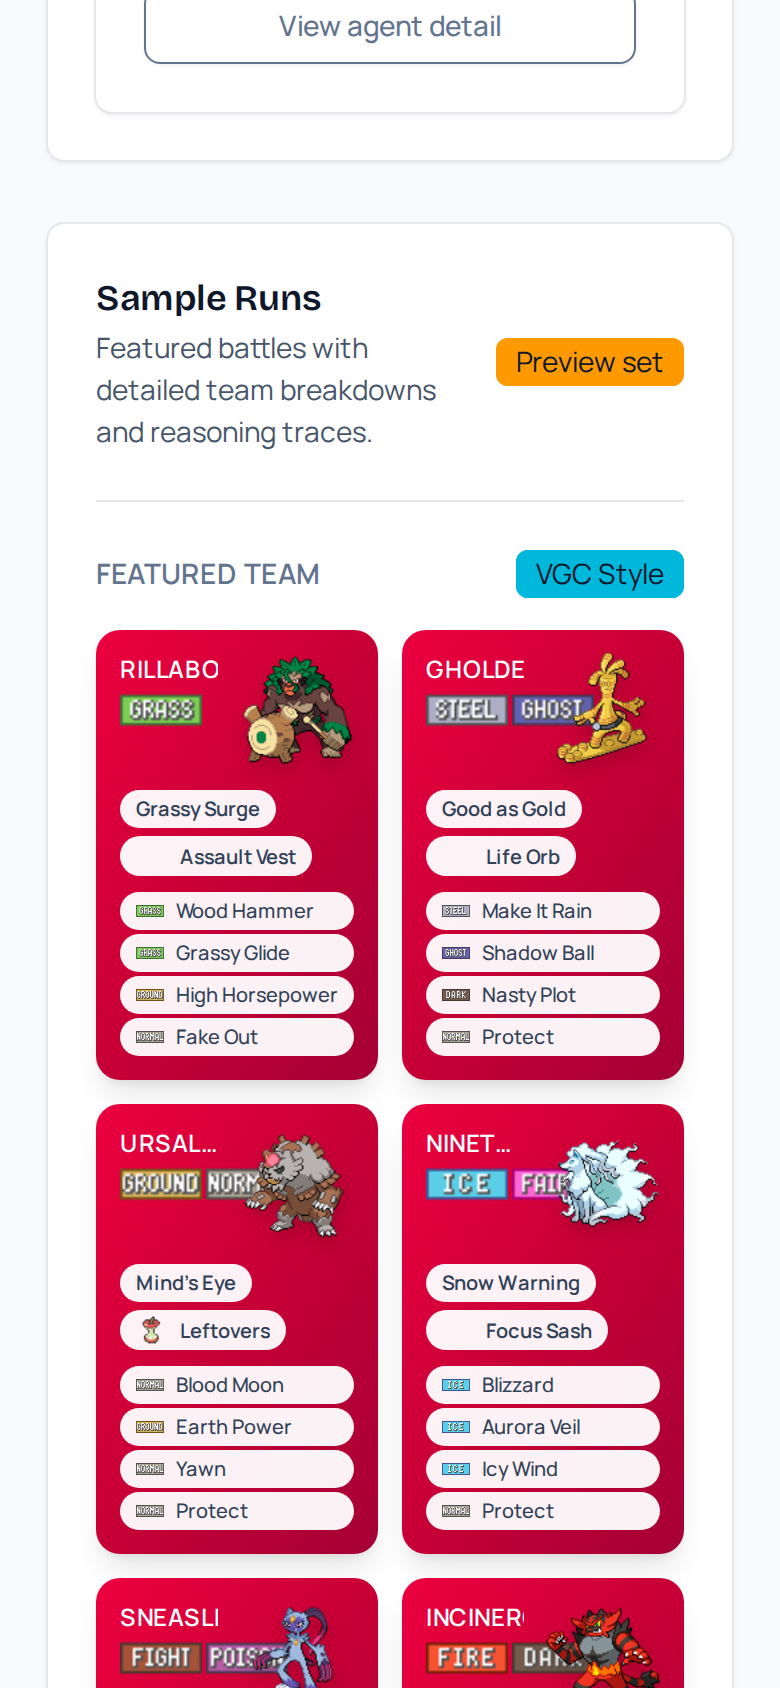
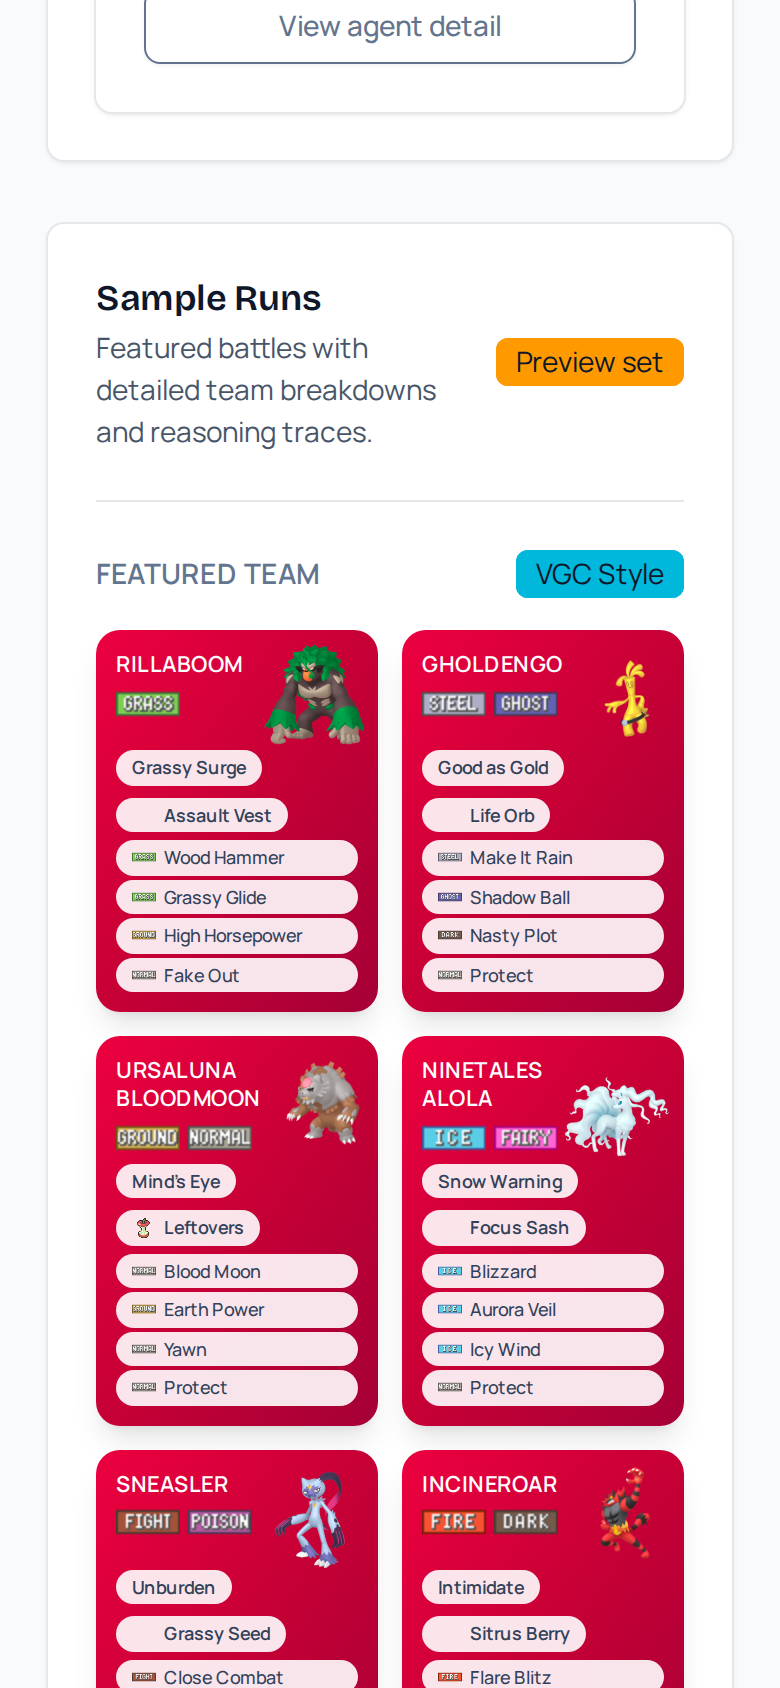
fix: Improve Pokemon card layout and sprite loading
- Use Pokemon HOME sprites for best modern Pokemon coverage
- Add sprite fallback chain (home -> dex -> gen5)
- Fix layout so sprites don't overlap type icons
- Show full Pokemon names without truncation
- Reduce type icon sizes for cleaner display
- Update screenshots with fixed layout

Changed region(s): [[0.1231, 0.3697, 0.8923, 1.0]]

diff --git a/apps/web/src/routes/index.tsx b/apps/web/src/routes/index.tsx
@@ -37,7 +37,7 @@ import { SiteNavbar } from '@/components/SiteNavbar'
 import { TextGenerateEffect } from '@/components/ui/text-generate-effect'
 import { SimplePokemonBadge, TypeBadge } from '@/components/PokemonTeamCard'
 import { getPokemonTypes, sampleTeams } from '../data/sample-teams'
-import { getPokemonSprite, getTypeIcon, getItemIcon } from '../utils/sprites'
+import { getPokemonSprite, getPokemonSpriteUrls, getTypeIcon, getItemIcon } from '../utils/sprites'
 import type { PokemonDetails } from '../data/sample-teams'
 
 export const Route = createFileRoute('/')({
@@ -111,74 +111,93 @@ const replayTracePreview = {
   ],
 }
 
+// Pokemon sprite component with fallback chain
+function PokemonSpriteWithFallback({ name, className }: { name: string; className?: string }) {
+  const urls = getPokemonSpriteUrls(name)
+  return (
+    <img
+      src={urls[0]}
+      alt={name}
+      className={`object-contain ${className || ''}`}
+      loading="lazy"
+      onError={(e) => {
+        const target = e.currentTarget
+        const currentSrc = target.src
+        // Try next URL in fallback chain
+        const currentIndex = urls.findIndex(url => currentSrc.includes(url.split('/sprites/')[1]?.split('/')[0] || ''))
+        if (currentIndex < urls.length - 1) {
+          target.src = urls[currentIndex + 1]
+        }
+      }}
+    />
+  )
+}
+
 // VGC-style Pokemon card component (like the reference image)
 function PokemonVGCCard({ pokemon }: { pokemon: PokemonDetails }) {
   return (
-    <div className="relative overflow-hidden rounded-xl bg-gradient-to-br from-rose-600 via-rose-700 to-rose-800 p-3 shadow-lg hover:shadow-xl transition-shadow">
-      {/* Header with name and types */}
-      <div className="flex items-start justify-between gap-2 mb-2">
-        <div className="flex-1 min-w-0">
-          {/* Pokemon name */}
-          <h3 className="text-xs font-bold text-white uppercase tracking-wide leading-tight line-clamp-1" title={pokemon.name.replace(/-/g, ' ')}>
+    <div className="relative overflow-hidden rounded-xl bg-gradient-to-br from-rose-600 via-rose-700 to-rose-800 shadow-lg hover:shadow-xl transition-shadow">
+      {/* Top section: Name + Types on left, Sprite on right */}
+      <div className="flex items-stretch">
+        {/* Left: Name and Types */}
+        <div className="flex-1 p-2.5 pb-1.5">
+          <h3 className="text-[11px] font-bold text-white uppercase tracking-wide leading-tight mb-1.5">
             {pokemon.name.replace(/-/g, ' ')}
           </h3>
-          {/* Type icons */}
-          <div className="flex items-center gap-0.5 mt-1">
+          <div className="flex items-center gap-1">
             {pokemon.types.map((type) => (
               <img
                 key={type}
                 src={getTypeIcon(type)}
                 alt={type}
-                className="h-[18px]"
+                className="h-[14px]"
                 loading="lazy"
               />
             ))}
           </div>
         </div>
-        {/* Pokemon sprite */}
-        <img
-          src={getPokemonSprite(pokemon.name)}
-          alt={pokemon.name}
-          className="h-16 w-16 object-contain drop-shadow-lg -mr-1 -mt-1"
-          loading="lazy"
-        />
+        {/* Right: Pokemon sprite */}
+        <div className="flex items-center justify-center pr-1.5 pt-1">
+          <PokemonSpriteWithFallback name={pokemon.name} className="h-14 w-14" />
+        </div>
       </div>
 
-      {/* Ability row */}
-      <div className="flex items-center gap-1 rounded-full bg-white/95 px-2 py-0.5 mb-1 w-fit max-w-full">
-        <span className="text-[10px] font-semibold text-slate-700 truncate">{pokemon.ability}</span>
-      </div>
-
-      {/* Item row */}
-      <div className="flex items-center gap-1.5 rounded-full bg-white/95 px-2 py-0.5 mb-2 w-fit max-w-full">
-        <img
-          src={getItemIcon(pokemon.item)}
-          alt=""
-          className="h-4 w-4 object-contain flex-shrink-0"
-          loading="lazy"
-          onError={(e) => {
-            e.currentTarget.style.display = 'none'
-          }}
-        />
-        <span className="text-[10px] font-semibold text-slate-700 truncate">{pokemon.item}</span>
-      </div>
-
-      {/* Moves list */}
-      <div className="space-y-0.5">
-        {pokemon.moves.map((move) => (
-          <div
-            key={move.name}
-            className="flex items-center gap-1.5 rounded-full bg-white/95 px-2 py-0.5"
-          >
+      {/* Bottom section: Ability, Item, Moves */}
+      <div className="px-2.5 pb-2.5 space-y-1">
+        {/* Ability and Item row */}
+        <div className="flex items-center gap-1.5 flex-wrap">
+          <span className="inline-flex items-center rounded-full bg-white/90 px-2 py-0.5 text-[9px] font-semibold text-slate-700">
+            {pokemon.ability}
+          </span>
+          <span className="inline-flex items-center gap-1 rounded-full bg-white/90 px-2 py-0.5 text-[9px] font-semibold text-slate-700">
             <img
-              src={getTypeIcon(move.type)}
+              src={getItemIcon(pokemon.item)}
               alt=""
-              className="h-3.5 w-3.5 object-contain flex-shrink-0"
+              className="h-3 w-3 object-contain"
               loading="lazy"
+              onError={(e) => { e.currentTarget.style.display = 'none' }}
             />
-            <span className="text-[10px] font-medium text-slate-700 truncate">{move.name}</span>
-          </div>
-        ))}
+            {pokemon.item}
+          </span>
+        </div>
+
+        {/* Moves list */}
+        <div className="space-y-0.5">
+          {pokemon.moves.map((move) => (
+            <div
+              key={move.name}
+              className="flex items-center gap-1 rounded-full bg-white/90 px-2 py-0.5"
+            >
+              <img
+                src={getTypeIcon(move.type)}
+                alt=""
+                className="h-3 w-3 object-contain flex-shrink-0"
+                loading="lazy"
+              />
+              <span className="text-[9px] font-medium text-slate-700">{move.name}</span>
+            </div>
+          ))}
+        </div>
       </div>
     </div>
   )

diff --git a/apps/web/src/utils/sprites.ts b/apps/web/src/utils/sprites.ts
@@ -6,11 +6,11 @@
 // Base URLs for Pokemon Showdown sprites
 const SPRITE_BASE = 'https://play.pokemonshowdown.com/sprites'
 
-// Pokemon sprite URLs - gen5 has the most complete coverage
-export const POKEMON_SPRITE_BASE = `${SPRITE_BASE}/gen5/`
-export const POKEMON_SPRITE_ANI = `${SPRITE_BASE}/ani/` // Animated sprites (gen 5+)
-export const POKEMON_SPRITE_ANI_BACK = `${SPRITE_BASE}/ani-back/`
-export const POKEMON_SPRITE_DEX = `${SPRITE_BASE}/dex/` // Higher quality dex sprites
+// Pokemon sprite URLs - using home sprites for best modern coverage
+export const POKEMON_SPRITE_HOME = `${SPRITE_BASE}/home/` // Pokemon HOME sprites (best for gen8-9)
+export const POKEMON_SPRITE_DEX = `${SPRITE_BASE}/dex/` // Dex sprites
+export const POKEMON_SPRITE_GEN5 = `${SPRITE_BASE}/gen5/` // Fallback for classic look
+export const POKEMON_SPRITE_ANI = `${SPRITE_BASE}/ani/` // Animated sprites
 
 // Type icons
 export const TYPE_ICON_BASE = `${SPRITE_BASE}/types/`
@@ -57,24 +57,43 @@ export const toSpriteId = (name: string): string => {
 }
 
 /**
- * Get Pokemon sprite URL (static PNG, gen5 style - most complete coverage)
+ * Get Pokemon sprite URL (HOME sprites have best coverage for all gens including gen8-9)
  */
 export const getPokemonSprite = (name: string): string => {
-  return `${POKEMON_SPRITE_BASE}${toSpriteId(name)}.png`
+  return `${POKEMON_SPRITE_HOME}${toSpriteId(name)}.png`
 }
 
 /**
- * Get Pokemon animated sprite URL (GIF, modern Pokemon)
+ * Get Pokemon dex sprite URL
+ */
+export const getPokemonDexSprite = (name: string): string => {
+  return `${POKEMON_SPRITE_DEX}${toSpriteId(name)}.png`
+}
+
+/**
+ * Get Pokemon gen5-style sprite URL (classic pixel art look)
+ */
+export const getPokemonGen5Sprite = (name: string): string => {
+  return `${POKEMON_SPRITE_GEN5}${toSpriteId(name)}.png`
+}
+
+/**
+ * Get Pokemon animated sprite URL (GIF)
  */
 export const getPokemonAnimatedSprite = (name: string): string => {
   return `${POKEMON_SPRITE_ANI}${toSpriteId(name)}.gif`
 }
 
 /**
- * Get Pokemon dex sprite URL (higher quality PNG)
+ * Get all possible sprite URLs for fallback chain
  */
-export const getPokemonDexSprite = (name: string): string => {
-  return `${POKEMON_SPRITE_DEX}${toSpriteId(name)}.png`
+export const getPokemonSpriteUrls = (name: string): string[] => {
+  const id = toSpriteId(name)
+  return [
+    `${POKEMON_SPRITE_HOME}${id}.png`,
+    `${POKEMON_SPRITE_DEX}${id}.png`,
+    `${POKEMON_SPRITE_GEN5}${id}.png`,
+  ]
 }
 
 /**
